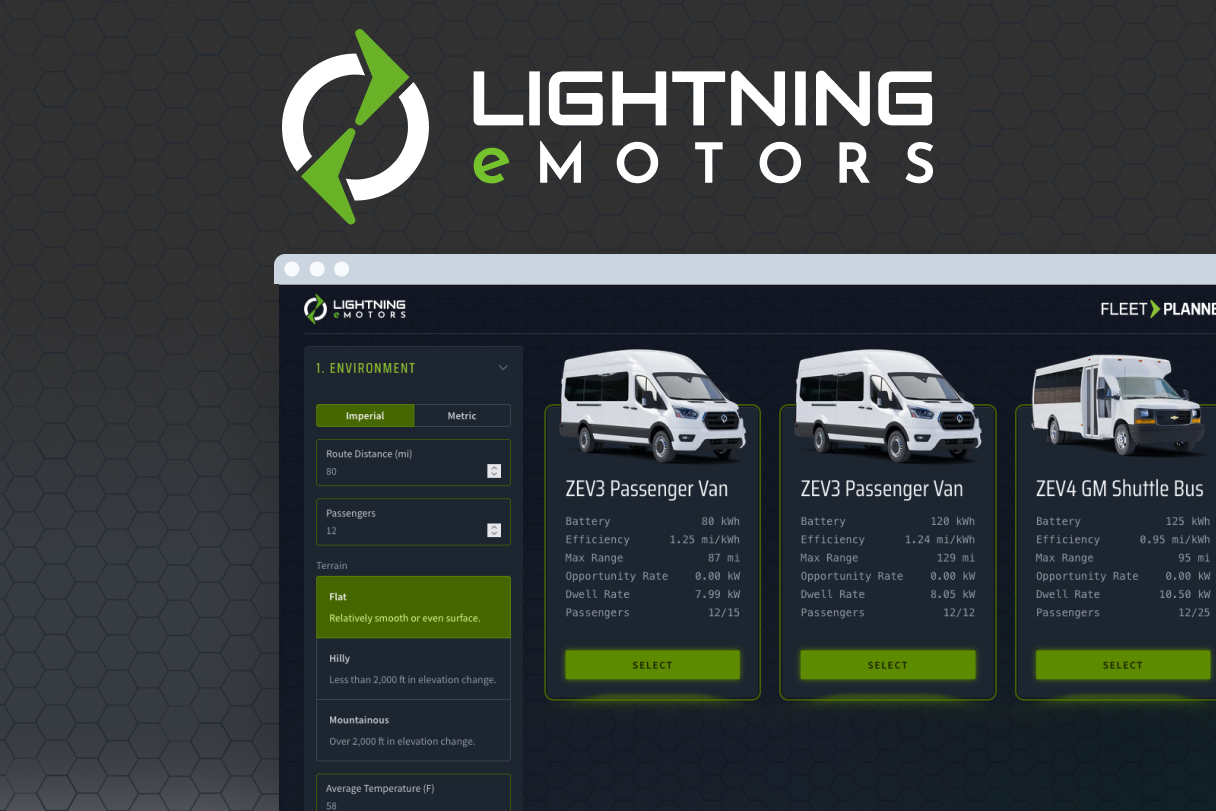
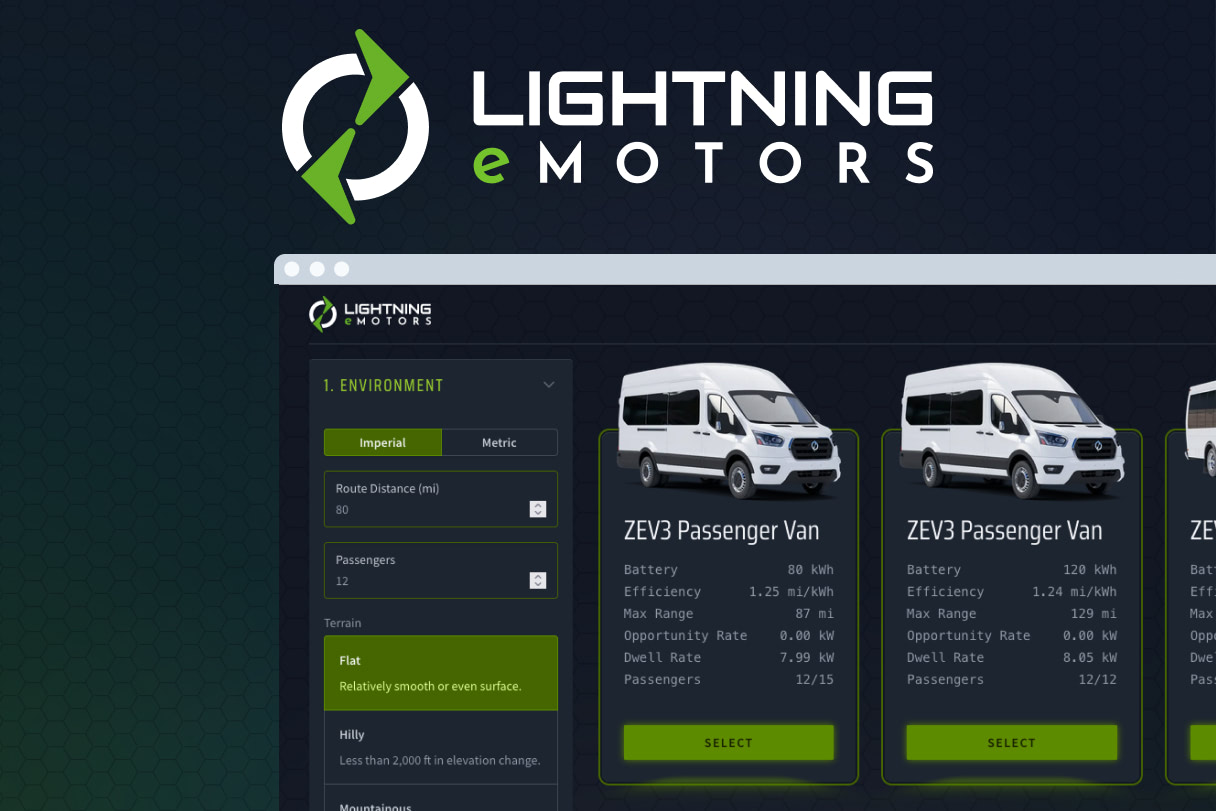
Minify images

diff --git a/missions/lightning-e-motors.md b/missions/lightning-e-motors.md
@@ -1,6 +1,6 @@
 ---
 title: Lightning eMotors
-description: Creating tools for fleet managers converting to all-electric vehicles. 
+description: Creating tools for fleet managers converting to all-electric vehicles.
 date: 2023-11-01
 client: Lightning eMotors
 industry: Transportation
@@ -36,7 +36,7 @@ Variables they had to consider included:
 
 All these variables were considered to help identify the most suitable heavy-duty vehicle for the fleet. Upon completing the simulation, the fleet manager would receive an impact report, which outlined the potential savings and tax credits available for electrifying their fleet.
 
-![Example of simulation user interface](/img/missions/lightning-in-browser.png)
+![Example of simulation user interface](/img/missions/lightning-in-browser.jpg)
 
 ## How It Helped
 
